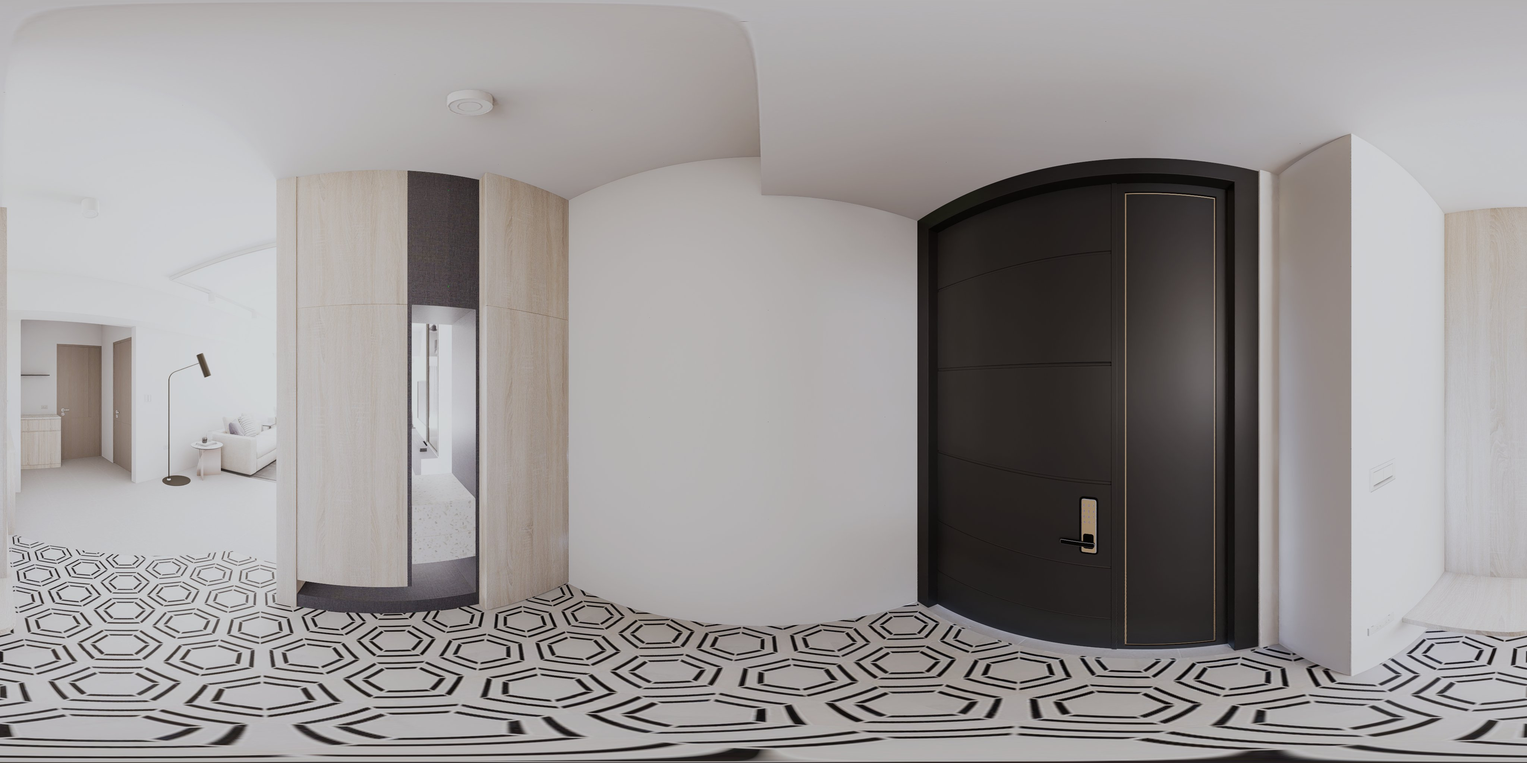
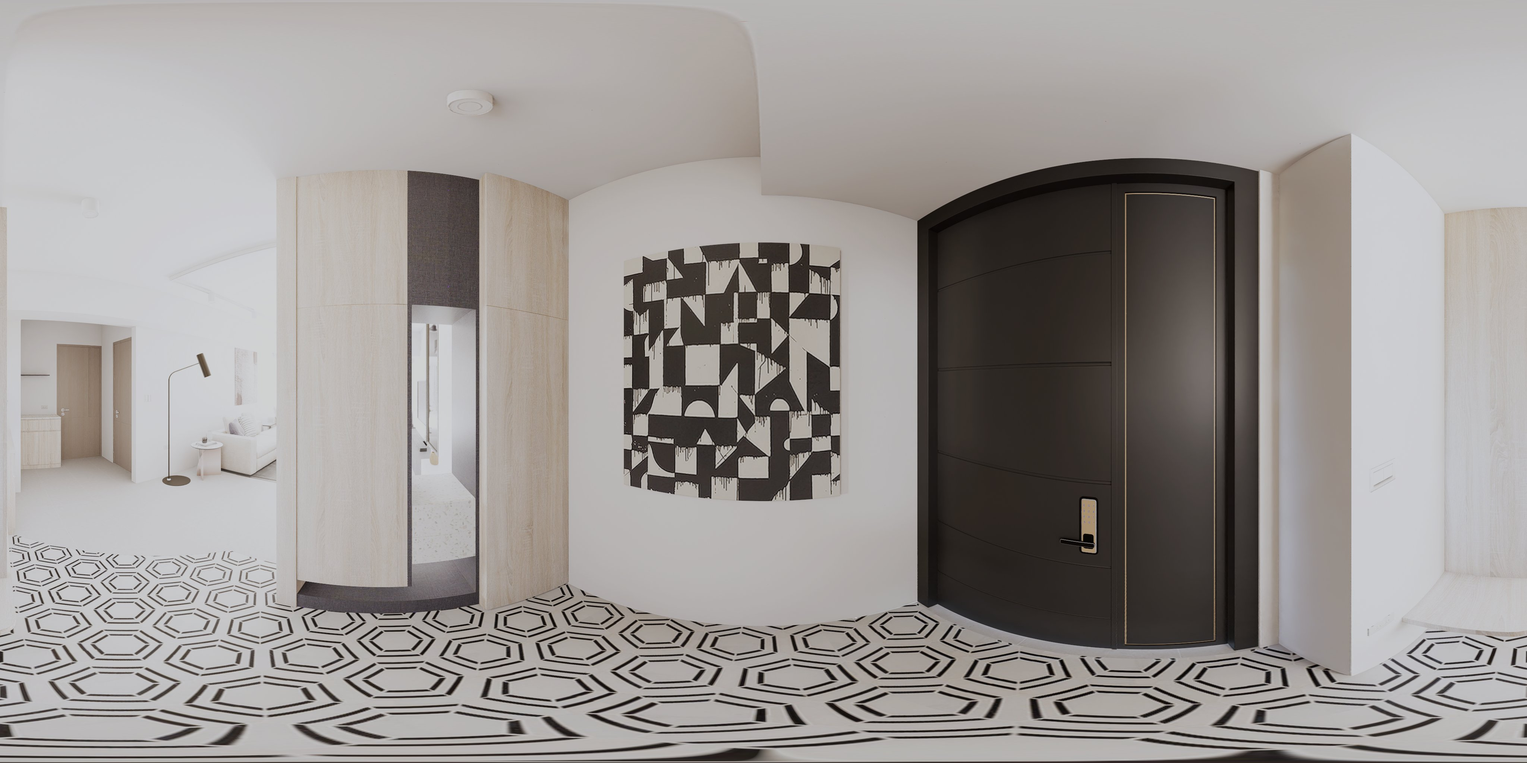
工學天下全屋樣品屋軟裝（9 站白天＋燈光重出，每間可開關飾品）
- 九個房間補家具飾品：掛畫、開放櫃與書櫃陳列、檯面擺件、地毯、圓墩、植物
- D5 重出 18 張（白天沿用原校色並降到平均約 150）
- 沒擺飾品的舊圖放 pano_plain／pano_night_plain，「飾品 關」切回原樣

Changed region(s): [[0.4062, 0.3125, 0.5625, 0.6562]]

diff --git a/gongxue/index.html b/gongxue/index.html
@@ -121,7 +121,7 @@ body { background: var(--bg); color: var(--ink); font-family: var(--f-ui); font-
 <script src="https://cdnjs.cloudflare.com/ajax/libs/pannellum/2.5.6/pannellum.js"></script>
 <script>
 const ROOMS = [{"id": "VR1", "name": "玄關", "x": 70.33, "y": 9.62}, {"id": "VR2", "name": "客廳", "x": 50.33, "y": 16.74}, {"id": "VR3", "name": "多功能區", "x": 21.0, "y": 41.42}, {"id": "VR4", "name": "廚房", "x": 16.33, "y": 58.58}, {"id": "VR5", "name": "走道", "x": 62.67, "y": 52.3}, {"id": "VR6", "name": "次臥", "x": 31.67, "y": 43.1}, {"id": "VR7", "name": "工作室", "x": 39.0, "y": 73.22}, {"id": "VR8", "name": "更衣室", "x": 66.0, "y": 72.8}, {"id": "VR9", "name": "主臥", "x": 80.33, "y": 74.9}];
-const SCENES = {"VR1": {"title": "玄關", "panorama": "pano/VR1.jpg?v=1b", "yaw": -135, "pitch": -5, "hfov": 105, "northOffset": 0, "hotSpots": [{"pitch": -8, "yaw": -135, "type": "scene", "sceneId": "VR2", "targetYaw": "sameAzimuth", "cssClass": "gis-hot", "createTooltipFunc": "HOT", "createTooltipArgs": "客廳"}]}, "VR2": {"title": "客廳", "panorama": "pano/VR2.jpg?v=d1", "yaw": -60, "pitch": -5, "hfov": 105, "northOffset": 0, "hotSpots": [{"pitch": -10, "yaw": 95, "type": "scene", "sceneId": "VR1", "targetYaw": "sameAzimuth", "cssClass": "gis-hot", "createTooltipFunc": "HOT", "createTooltipArgs": "玄關"}, {"pitch": -6, "yaw": -118, "type": "scene", "sceneId": "VR3", "targetYaw": "sameAzimuth", "cssClass": "gis-hot", "createTooltipFunc": "HOT", "createTooltipArgs": "多功能區"}, {"pitch": -2, "yaw": 150, "type": "scene", "sceneId": "VR6", "targetYaw": "sameAzimuth", "cssClass": "gis-hot", "createTooltipFunc": "HOT", "createTooltipArgs": "次臥"}, {"pitch": -18, "yaw": 145, "type": "scene", "sceneId": "VR5", "targetYaw": "sameAzimuth", "cssClass": "gis-hot", "createTooltipFunc": "HOT", "createTooltipArgs": "走道"}]}, "VR3": {"title": "多功能區", "panorama": "pano/VR3.jpg?v=1b", "yaw": -100, "pitch": -5, "hfov": 105, "northOffset": 0, "hotSpots": [{"pitch": -6, "yaw": 20, "type": "scene", "sceneId": "VR2", "targetYaw": "sameAzimuth", "cssClass": "gis-hot", "createTooltipFunc": "HOT", "createTooltipArgs": "客廳"}, {"pitch": -14, "yaw": -161, "type": "scene", "sceneId": "VR4", "targetYaw": "sameAzimuth", "cssClass": "gis-hot", "createTooltipFunc": "HOT", "createTooltipArgs": "廚房"}]}, "VR4": {"title": "廚房", "panorama": "pano/VR4.jpg?v=1b", "yaw": -150, "pitch": -5, "hfov": 105, "northOffset": 0, "hotSpots": [{"pitch": -14, "yaw": 19, "type": "scene", "sceneId": "VR3", "targetYaw": "sameAzimuth", "cssClass": "gis-hot", "createTooltipFunc": "HOT", "createTooltipArgs": "多功能區"}, {"pitch": -6, "yaw": 125, "type": "scene", "sceneId": "VR7", "targetYaw": "sameAzimuth", "cssClass": "gis-hot", "createTooltipFunc": "HOT", "createTooltipArgs": "工作室"}]}, "VR5": {"title": "走道", "panorama": "pano/VR5.jpg?v=1b", "yaw": 110, "pitch": -5, "hfov": 105, "northOffset": 0, "hotSpots": [{"pitch": -6, "yaw": -20, "type": "scene", "sceneId": "VR2", "targetYaw": "sameAzimuth", "cssClass": "gis-hot", "createTooltipFunc": "HOT", "createTooltipArgs": "客廳"}, {"pitch": -6, "yaw": -160, "type": "scene", "sceneId": "VR8", "targetYaw": "sameAzimuth", "cssClass": "gis-hot", "createTooltipFunc": "HOT", "createTooltipArgs": "更衣室"}, {"pitch": -8, "yaw": 110, "type": "scene", "sceneId": "VR9", "targetYaw": "sameAzimuth", "cssClass": "gis-hot", "createTooltipFunc": "HOT", "createTooltipArgs": "主臥"}]}, "VR6": {"title": "次臥", "panorama": "pano/VR6.jpg?v=1b", "yaw": 120, "pitch": -5, "hfov": 105, "northOffset": 0, "hotSpots": [{"pitch": -4, "yaw": 81, "type": "scene", "sceneId": "VR2", "targetYaw": "sameAzimuth", "cssClass": "gis-hot", "createTooltipFunc": "HOT", "createTooltipArgs": "客廳"}]}, "VR7": {"title": "工作室", "panorama": "pano/VR7.jpg?v=1b", "yaw": 0, "pitch": -5, "hfov": 105, "northOffset": 0, "hotSpots": [{"pitch": -6, "yaw": -70, "type": "scene", "sceneId": "VR4", "targetYaw": "sameAzimuth", "cssClass": "gis-hot", "createTooltipFunc": "HOT", "createTooltipArgs": "廚房"}]}, "VR8": {"title": "更衣室", "panorama": "pano/VR8.jpg?v=1b", "yaw": 30, "pitch": -5, "hfov": 105, "northOffset": 0, "hotSpots": [{"pitch": -6, "yaw": -34, "type": "scene", "sceneId": "VR5", "targetYaw": "sameAzimuth", "cssClass": "gis-hot", "createTooltipFunc": "HOT", "createTooltipArgs": "走道"}]}, "VR9": {"title": "主臥", "panorama": "pano/VR9.jpg?v=1", "yaw": 75, "pitch": -5, "hfov": 105, "northOffset": 0, "hotSpots": [{"pitch": -8, "yaw": -17, "type": "scene", "sceneId": "VR5", "targetYaw": "sameAzimuth", "cssClass": "gis-hot", "createTooltipFunc": "HOT", "createTooltipArgs": "走道"}]}, "VR1@n": {"title": "玄關", "panorama": "pano_night/VR1.jpg?v=1", "yaw": -135, "pitch": -5, "hfov": 105, "northOffset": 0, "hotSpots": [{"pitch": -8, "yaw": -135, "type": "scene", "sceneId": "VR2@n", "targetYaw": "sameAzimuth", "cssClass": "gis-hot", "createTooltipFunc": "HOT", "createTooltipArgs": "客廳"}]}, "VR2@n": {"title": "客廳", "panorama": "pano_night/VR2.jpg?v=d1", "yaw": -60, "pitch": -5, "hfov": 105, "northOffset": 0, "hotSpots": [{"pitch": -10, "yaw": 95, "type": "scene", "sceneId": "VR1@n", "targetYaw": "sameAzimuth", "cssClass": "gis-hot", "createTooltipFunc": "HOT", "createTooltipArgs": "玄關"}, {"pitch": -6, "yaw": -118, "type": "scene", "sceneId": "VR3@n", "targetYaw": "sameAzimuth", "cssClass": "gis-hot", "createTooltipFunc": "HOT", "createTooltipArgs": "多功能區"}, {"pitch": -2, "yaw": 150, "type": "scene", "sceneId": "VR6@n", "targetYaw": "sameAzimuth", "cssClass": "gis-hot", "createTooltipFunc": "HOT", "createTooltipArgs": "次臥"}, {"pitch": -18, "yaw": 145, "type": "scene", "sceneId": "VR5@n", "targetYaw": "sameAzimuth", "cssClass": "gis-hot", "createTooltipFunc": "HOT", "createTooltipArgs": "走道"}]}, "VR3@n": {"title": "多功能區", "panorama": "pano_night/VR3.jpg?v=1", "yaw": -100, "pitch": -5, "hfov": 105, "northOffset": 0, "hotSpots": [{"pitch": -6, "yaw": 20, "type": "scene", "sceneId": "VR2@n", "targetYaw": "sameAzimuth", "cssClass": "gis-hot", "createTooltipFunc": "HOT", "createTooltipArgs": "客廳"}, {"pitch": -14, "yaw": -161, "type": "scene", "sceneId": "VR4@n", "targetYaw": "sameAzimuth", "cssClass": "gis-hot", "createTooltipFunc": "HOT", "createTooltipArgs": "廚房"}]}, "VR4@n": {"title": "廚房", "panorama": "pano_night/VR4.jpg?v=1", "yaw": -150, "pitch": -5, "hfov": 105, "northOffset": 0, "hotSpots": [{"pitch": -14, "yaw": 19, "type": "scene", "sceneId": "VR3@n", "targetYaw": "sameAzimuth", "cssClass": "gis-hot", "createTooltipFunc": "HOT", "createTooltipArgs": "多功能區"}, {"pitch": -6, "yaw": 125, "type": "scene", "sceneId": "VR7@n", "targetYaw": "sameAzimuth", "cssClass": "gis-hot", "createTooltipFunc": "HOT", "createTooltipArgs": "工作室"}]}, "VR5@n": {"title": "走道", "panorama": "pano_night/VR5.jpg?v=1", "yaw": 110, "pitch": -5, "hfov": 105, "northOffset": 0, "hotSpots": [{"pitch": -6, "yaw": -20, "type": "scene", "sceneId": "VR2@n", "targetYaw": "sameAzimuth", "cssClass": "gis-hot", "createTooltipFunc": "HOT", "createTooltipArgs": "客廳"}, {"pitch": -6, "yaw": -160, "type": "scene", "sceneId": "VR8@n", "targetYaw": "sameAzimuth", "cssClass": "gis-hot", "createTooltipFunc": "HOT", "createTooltipArgs": "更衣室"}, {"pitch": -8, "yaw": 110, "type": "scene", "sceneId": "VR9@n", "targetYaw": "sameAzimuth", "cssClass": "gis-hot", "createTooltipFunc": "HOT", "createTooltipArgs": "主臥"}]}, "VR6@n": {"title": "次臥", "panorama": "pano_night/VR6.jpg?v=1", "yaw": 120, "pitch": -5, "hfov": 105, "northOffset": 0, "hotSpots": [{"pitch": -4, "yaw": 81, "type": "scene", "sceneId": "VR2@n", "targetYaw": "sameAzimuth", "cssClass": "gis-hot", "createTooltipFunc": "HOT", "createTooltipArgs": "客廳"}]}, "VR7@n": {"title": "工作室", "panorama": "pano_night/VR7.jpg?v=1", "yaw": 0, "pitch": -5, "hfov": 105, "northOffset": 0, "hotSpots": [{"pitch": -6, "yaw": -70, "type": "scene", "sceneId": "VR4@n", "targetYaw": "sameAzimuth", "cssClass": "gis-hot", "createTooltipFunc": "HOT", "createTooltipArgs": "廚房"}]}, "VR8@n": {"title": "更衣室", "panorama": "pano_night/VR8.jpg?v=1", "yaw": 30, "pitch": -5, "hfov": 105, "northOffset": 0, "hotSpots": [{"pitch": -6, "yaw": -34, "type": "scene", "sceneId": "VR5@n", "targetYaw": "sameAzimuth", "cssClass": "gis-hot", "createTooltipFunc": "HOT", "createTooltipArgs": "走道"}]}, "VR9@n": {"title": "主臥", "panorama": "pano_night/VR9.jpg?v=1", "yaw": 75, "pitch": -5, "hfov": 105, "northOffset": 0, "hotSpots": [{"pitch": -8, "yaw": -17, "type": "scene", "sceneId": "VR5@n", "targetYaw": "sameAzimuth", "cssClass": "gis-hot", "createTooltipFunc": "HOT", "createTooltipArgs": "走道"}]}, "VR1@b": {"title": "玄關", "panorama": "pano_before/VR1.jpg?v=1", "yaw": -135, "pitch": -5, "hfov": 105, "northOffset": 0, "hotSpots": [{"pitch": -8, "yaw": -135, "type": "scene", "sceneId": "VR2@b", "targetYaw": "sameAzimuth", "cssClass": "gis-hot", "createTooltipFunc": "HOT", "createTooltipArgs": "客廳"}]}, "VR2@b": {"title": "客廳", "panorama": "pano_before/VR2.jpg?v=1", "yaw": -60, "pitch": -5, "hfov": 105, "northOffset": 0, "hotSpots": [{"pitch": -10, "yaw": 95, "type": "scene", "sceneId": "VR1@b", "targetYaw": "sameAzimuth", "cssClass": "gis-hot", "createTooltipFunc": "HOT", "createTooltipArgs": "玄關"}, {"pitch": -6, "yaw": -118, "type": "scene", "sceneId": "VR3@b", "targetYaw": "sameAzimuth", "cssClass": "gis-hot", "createTooltipFunc": "HOT", "createTooltipArgs": "多功能區"}, {"pitch": -2, "yaw": 150, "type": "scene", "sceneId": "VR6@b", "targetYaw": "sameAzimuth", "cssClass": "gis-hot", "createTooltipFunc": "HOT", "createTooltipArgs": "次臥"}, {"pitch": -18, "yaw": 145, "type": "scene", "sceneId": "VR5@b", "targetYaw": "sameAzimuth", "cssClass": "gis-hot", "createTooltipFunc": "HOT", "createTooltipArgs": "走道"}]}, "VR3@b": {"title": "多功能區", "panorama": "pano_before/VR3.jpg?v=1", "yaw": -100, "pitch": -5, "hfov": 105, "northOffset": 0, "hotSpots": [{"pitch": -6, "yaw": 20, "type": "scene", "sceneId": "VR2@b", "targetYaw": "sameAzimuth", "cssClass": "gis-hot", "createTooltipFunc": "HOT", "createTooltipArgs": "客廳"}, {"pitch": -14, "yaw": -161, "type": "scene", "sceneId": "VR4@b", "targetYaw": "sameAzimuth", "cssClass": "gis-hot", "createTooltipFunc": "HOT", "createTooltipArgs": "廚房"}]}, "VR4@b": {"title": "廚房", "panorama": "pano_before/VR4.jpg?v=1", "yaw": -150, "pitch": -5, "hfov": 105, "northOffset": 0, "hotSpots": [{"pitch": -14, "yaw": 19, "type": "scene", "sceneId": "VR3@b", "targetYaw": "sameAzimuth", "cssClass": "gis-hot", "createTooltipFunc": "HOT", "createTooltipArgs": "多功能區"}, {"pitch": -6, "yaw": 125, "type": "scene", "sceneId": "VR7@b", "targetYaw": "sameAzimuth", "cssClass": "gis-hot", "createTooltipFunc": "HOT", "createTooltipArgs": "工作室"}]}, "VR5@b": {"title": "走道", "panorama": "pano_before/VR5.jpg?v=1", "yaw": 110, "pitch": -5, "hfov": 105, "northOffset": 0, "hotSpots": [{"pitch": -6, "yaw": -20, "type": "scene", "sceneId": "VR2@b", "targetYaw": "sameAzimuth", "cssClass": "gis-hot", "createTooltipFunc": "HOT", "createTooltipArgs": "客廳"}, {"pitch": -6, "yaw": -160, "type": "scene", "sceneId": "VR8@b", "targetYaw": "sameAzimuth", "cssClass": "gis-hot", "createTooltipFunc": "HOT", "createTooltipArgs": "更衣室"}, {"pitch": -8, "yaw": 110, "type": "scene", "sceneId": "VR9@b", "targetYaw": "sameAzimuth", "cssClass": "gis-hot", "createTooltipFunc": "HOT", "createTooltipArgs": "主臥"}]}, "VR6@b": {"title": "次臥", "panorama": "pano_before/VR6.jpg?v=1", "yaw": 120, "pitch": -5, "hfov": 105, "northOffset": 0, "hotSpots": [{"pitch": -4, "yaw": 81, "type": "scene", "sceneId": "VR2@b", "targetYaw": "sameAzimuth", "cssClass": "gis-hot", "createTooltipFunc": "HOT", "createTooltipArgs": "客廳"}]}, "VR7@b": {"title": "工作室", "panorama": "pano_before/VR7.jpg?v=1", "yaw": 0, "pitch": -5, "hfov": 105, "northOffset": 0, "hotSpots": [{"pitch": -6, "yaw": -70, "type": "scene", "sceneId": "VR4@b", "targetYaw": "sameAzimuth", "cssClass": "gis-hot", "createTooltipFunc": "HOT", "createTooltipArgs": "廚房"}]}, "VR8@b": {"title": "更衣室", "panorama": "pano_before/VR8.jpg?v=1", "yaw": 30, "pitch": -5, "hfov": 105, "northOffset": 0, "hotSpots": [{"pitch": -6, "yaw": -34, "type": "scene", "sceneId": "VR5@b", "targetYaw": "sameAzimuth", "cssClass": "gis-hot", "createTooltipFunc": "HOT", "createTooltipArgs": "走道"}]}, "VR9@b": {"title": "主臥", "panorama": "pano_before/VR9.jpg?v=1", "yaw": 75, "pitch": -5, "hfov": 105, "northOffset": 0, "hotSpots": [{"pitch": -8, "yaw": -17, "type": "scene", "sceneId": "VR5@b", "targetYaw": "sameAzimuth", "cssClass": "gis-hot", "createTooltipFunc": "HOT", "createTooltipArgs": "走道"}]}, "VR1~p": {"title": "玄關", "panorama": "pano/VR1.jpg?v=1b", "yaw": -135, "pitch": -5, "hfov": 105, "northOffset": 0, "hotSpots": [{"pitch": -8, "yaw": -135, "type": "scene", "sceneId": "VR2~p", "targetYaw": "sameAzimuth", "cssClass": "gis-hot", "createTooltipFunc": "HOT", "createTooltipArgs": "客廳"}]}, "VR2~p": {"title": "客廳", "panorama": "pano_plain/VR2.jpg?v=1b", "yaw": -60, "pitch": -5, "hfov": 105, "northOffset": 0, "hotSpots": [{"pitch": -10, "yaw": 95, "type": "scene", "sceneId": "VR1~p", "targetYaw": "sameAzimuth", "cssClass": "gis-hot", "createTooltipFunc": "HOT", "createTooltipArgs": "玄關"}, {"pitch": -6, "yaw": -118, "type": "scene", "sceneId": "VR3~p", "targetYaw": "sameAzimuth", "cssClass": "gis-hot", "createTooltipFunc": "HOT", "createTooltipArgs": "多功能區"}, {"pitch": -2, "yaw": 150, "type": "scene", "sceneId": "VR6~p", "targetYaw": "sameAzimuth", "cssClass": "gis-hot", "createTooltipFunc": "HOT", "createTooltipArgs": "次臥"}, {"pitch": -18, "yaw": 145, "type": "scene", "sceneId": "VR5~p", "targetYaw": "sameAzimuth", "cssClass": "gis-hot", "createTooltipFunc": "HOT", "createTooltipArgs": "走道"}]}, "VR3~p": {"title": "多功能區", "panorama": "pano/VR3.jpg?v=1b", "yaw": -100, "pitch": -5, "hfov": 105, "northOffset": 0, "hotSpots": [{"pitch": -6, "yaw": 20, "type": "scene", "sceneId": "VR2~p", "targetYaw": "sameAzimuth", "cssClass": "gis-hot", "createTooltipFunc": "HOT", "createTooltipArgs": "客廳"}, {"pitch": -14, "yaw": -161, "type": "scene", "sceneId": "VR4~p", "targetYaw": "sameAzimuth", "cssClass": "gis-hot", "createTooltipFunc": "HOT", "createTooltipArgs": "廚房"}]}, "VR4~p": {"title": "廚房", "panorama": "pano/VR4.jpg?v=1b", "yaw": -150, "pitch": -5, "hfov": 105, "northOffset": 0, "hotSpots": [{"pitch": -14, "yaw": 19, "type": "scene", "sceneId": "VR3~p", "targetYaw": "sameAzimuth", "cssClass": "gis-hot", "createTooltipFunc": "HOT", "createTooltipArgs": "多功能區"}, {"pitch": -6, "yaw": 125, "type": "scene", "sceneId": "VR7~p", "targetYaw": "sameAzimuth", "cssClass": "gis-hot", "createTooltipFunc": "HOT", "createTooltipArgs": "工作室"}]}, "VR5~p": {"title": "走道", "panorama": "pano/VR5.jpg?v=1b", "yaw": 110, "pitch": -5, "hfov": 105, "northOffset": 0, "hotSpots": [{"pitch": -6, "yaw": -20, "type": "scene", "sceneId": "VR2~p", "targetYaw": "sameAzimuth", "cssClass": "gis-hot", "createTooltipFunc": "HOT", "createTooltipArgs": "客廳"}, {"pitch": -6, "yaw": -160, "type": "scene", "sceneId": "VR8~p", "targetYaw": "sameAzimuth", "cssClass": "gis-hot", "createTooltipFunc": "HOT", "createTooltipArgs": "更衣室"}, {"pitch": -8, "yaw": 110, "type": "scene", "sceneId": "VR9~p", "targetYaw": "sameAzimuth", "cssClass": "gis-hot", "createTooltipFunc": "HOT", "createTooltipArgs": "主臥"}]}, "VR6~p": {"title": "次臥", "panorama": "pano/VR6.jpg?v=1b", "yaw": 120, "pitch": -5, "hfov": 105, "northOffset": 0, "hotSpots": [{"pitch": -4, "yaw": 81, "type": "scene", "sceneId": "VR2~p", "targetYaw": "sameAzimuth", "cssClass": "gis-hot", "createTooltipFunc": "HOT", "createTooltipArgs": "客廳"}]}, "VR7~p": {"title": "工作室", "panorama": "pano/VR7.jpg?v=1b", "yaw": 0, "pitch": -5, "hfov": 105, "northOffset": 0, "hotSpots": [{"pitch": -6, "yaw": -70, "type": "scene", "sceneId": "VR4~p", "targetYaw": "sameAzimuth", "cssClass": "gis-hot", "createTooltipFunc": "HOT", "createTooltipArgs": "廚房"}]}, "VR8~p": {"title": "更衣室", "panorama": "pano/VR8.jpg?v=1b", "yaw": 30, "pitch": -5, "hfov": 105, "northOffset": 0, "hotSpots": [{"pitch": -6, "yaw": -34, "type": "scene", "sceneId": "VR5~p", "targetYaw": "sameAzimuth", "cssClass": "gis-hot", "createTooltipFunc": "HOT", "createTooltipArgs": "走道"}]}, "VR9~p": {"title": "主臥", "panorama": "pano/VR9.jpg?v=1", "yaw": 75, "pitch": -5, "hfov": 105, "northOffset": 0, "hotSpots": [{"pitch": -8, "yaw": -17, "type": "scene", "sceneId": "VR5~p", "targetYaw": "sameAzimuth", "cssClass": "gis-hot", "createTooltipFunc": "HOT", "createTooltipArgs": "走道"}]}, "VR1@n~p": {"title": "玄關", "panorama": "pano_night/VR1.jpg?v=1", "yaw": -135, "pitch": -5, "hfov": 105, "northOffset": 0, "hotSpots": [{"pitch": -8, "yaw": -135, "type": "scene", "sceneId": "VR2@n~p", "targetYaw": "sameAzimuth", "cssClass": "gis-hot", "createTooltipFunc": "HOT", "createTooltipArgs": "客廳"}]}, "VR2@n~p": {"title": "客廳", "panorama": "pano_night_plain/VR2.jpg?v=1", "yaw": -60, "pitch": -5, "hfov": 105, "northOffset": 0, "hotSpots": [{"pitch": -10, "yaw": 95, "type": "scene", "sceneId": "VR1@n~p", "targetYaw": "sameAzimuth", "cssClass": "gis-hot", "createTooltipFunc": "HOT", "createTooltipArgs": "玄關"}, {"pitch": -6, "yaw": -118, "type": "scene", "sceneId": "VR3@n~p", "targetYaw": "sameAzimuth", "cssClass": "gis-hot", "createTooltipFunc": "HOT", "createTooltipArgs": "多功能區"}, {"pitch": -2, "yaw": 150, "type": "scene", "sceneId": "VR6@n~p", "targetYaw": "sameAzimuth", "cssClass": "gis-hot", "createTooltipFunc": "HOT", "createTooltipArgs": "次臥"}, {"pitch": -18, "yaw": 145, "type": "scene", "sceneId": "VR5@n~p", "targetYaw": "sameAzimuth", "cssClass": "gis-hot", "createTooltipFunc": "HOT", "createTooltipArgs": "走道"}]}, "VR3@n~p": {"title": "多功能區", "panorama": "pano_night/VR3.jpg?v=1", "yaw": -100, "pitch": -5, "hfov": 105, "northOffset": 0, "hotSpots": [{"pitch": -6, "yaw": 20, "type": "scene", "sceneId": "VR2@n~p", "targetYaw": "sameAzimuth", "cssClass": "gis-hot", "createTooltipFunc": "HOT", "createTooltipArgs": "客廳"}, {"pitch": -14, "yaw": -161, "type": "scene", "sceneId": "VR4@n~p", "targetYaw": "sameAzimuth", "cssClass": "gis-hot", "createTooltipFunc": "HOT", "createTooltipArgs": "廚房"}]}, "VR4@n~p": {"title": "廚房", "panorama": "pano_night/VR4.jpg?v=1", "yaw": -150, "pitch": -5, "hfov": 105, "northOffset": 0, "hotSpots": [{"pitch": -14, "yaw": 19, "type": "scene", "sceneId": "VR3@n~p", "targetYaw": "sameAzimuth", "cssClass": "gis-hot", "createTooltipFunc": "HOT", "createTooltipArgs": "多功能區"}, {"pitch": -6, "yaw": 125, "type": "scene", "sceneId": "VR7@n~p", "targetYaw": "sameAzimuth", "cssClass": "gis-hot", "createTooltipFunc": "HOT", "createTooltipArgs": "工作室"}]}, "VR5@n~p": {"title": "走道", "panorama": "pano_night/VR5.jpg?v=1", "yaw": 110, "pitch": -5, "hfov": 105, "northOffset": 0, "hotSpots": [{"pitch": -6, "yaw": -20, "type": "scene", "sceneId": "VR2@n~p", "targetYaw": "sameAzimuth", "cssClass": "gis-hot", "createTooltipFunc": "HOT", "createTooltipArgs": "客廳"}, {"pitch": -6, "yaw": -160, "type": "scene", "sceneId": "VR8@n~p", "targetYaw": "sameAzimuth", "cssClass": "gis-hot", "createTooltipFunc": "HOT", "createTooltipArgs": "更衣室"}, {"pitch": -8, "yaw": 110, "type": "scene", "sceneId": "VR9@n~p", "targetYaw": "sameAzimuth", "cssClass": "gis-hot", "createTooltipFunc": "HOT", "createTooltipArgs": "主臥"}]}, "VR6@n~p": {"title": "次臥", "panorama": "pano_night/VR6.jpg?v=1", "yaw": 120, "pitch": -5, "hfov": 105, "northOffset": 0, "hotSpots": [{"pitch": -4, "yaw": 81, "type": "scene", "sceneId": "VR2@n~p", "targetYaw": "sameAzimuth", "cssClass": "gis-hot", "createTooltipFunc": "HOT", "createTooltipArgs": "客廳"}]}, "VR7@n~p": {"title": "工作室", "panorama": "pano_night/VR7.jpg?v=1", "yaw": 0, "pitch": -5, "hfov": 105, "northOffset": 0, "hotSpots": [{"pitch": -6, "yaw": -70, "type": "scene", "sceneId": "VR4@n~p", "targetYaw": "sameAzimuth", "cssClass": "gis-hot", "createTooltipFunc": "HOT", "createTooltipArgs": "廚房"}]}, "VR8@n~p": {"title": "更衣室", "panorama": "pano_night/VR8.jpg?v=1", "yaw": 30, "pitch": -5, "hfov": 105, "northOffset": 0, "hotSpots": [{"pitch": -6, "yaw": -34, "type": "scene", "sceneId": "VR5@n~p", "targetYaw": "sameAzimuth", "cssClass": "gis-hot", "createTooltipFunc": "HOT", "createTooltipArgs": "走道"}]}, "VR9@n~p": {"title": "主臥", "panorama": "pano_night/VR9.jpg?v=1", "yaw": 75, "pitch": -5, "hfov": 105, "northOffset": 0, "hotSpots": [{"pitch": -8, "yaw": -17, "type": "scene", "sceneId": "VR5@n~p", "targetYaw": "sameAzimuth", "cssClass": "gis-hot", "createTooltipFunc": "HOT", "createTooltipArgs": "走道"}]}};
+const SCENES = {"VR1": {"title": "玄關", "panorama": "pano/VR1.jpg?v=s1", "yaw": -135, "pitch": -5, "hfov": 105, "northOffset": 0, "hotSpots": [{"pitch": -8, "yaw": -135, "type": "scene", "sceneId": "VR2", "targetYaw": "sameAzimuth", "cssClass": "gis-hot", "createTooltipFunc": "HOT", "createTooltipArgs": "客廳"}]}, "VR2": {"title": "客廳", "panorama": "pano/VR2.jpg?v=s1", "yaw": -60, "pitch": -5, "hfov": 105, "northOffset": 0, "hotSpots": [{"pitch": -10, "yaw": 95, "type": "scene", "sceneId": "VR1", "targetYaw": "sameAzimuth", "cssClass": "gis-hot", "createTooltipFunc": "HOT", "createTooltipArgs": "玄關"}, {"pitch": -6, "yaw": -118, "type": "scene", "sceneId": "VR3", "targetYaw": "sameAzimuth", "cssClass": "gis-hot", "createTooltipFunc": "HOT", "createTooltipArgs": "多功能區"}, {"pitch": -2, "yaw": 150, "type": "scene", "sceneId": "VR6", "targetYaw": "sameAzimuth", "cssClass": "gis-hot", "createTooltipFunc": "HOT", "createTooltipArgs": "次臥"}, {"pitch": -18, "yaw": 145, "type": "scene", "sceneId": "VR5", "targetYaw": "sameAzimuth", "cssClass": "gis-hot", "createTooltipFunc": "HOT", "createTooltipArgs": "走道"}]}, "VR3": {"title": "多功能區", "panorama": "pano/VR3.jpg?v=s1", "yaw": -100, "pitch": -5, "hfov": 105, "northOffset": 0, "hotSpots": [{"pitch": -6, "yaw": 20, "type": "scene", "sceneId": "VR2", "targetYaw": "sameAzimuth", "cssClass": "gis-hot", "createTooltipFunc": "HOT", "createTooltipArgs": "客廳"}, {"pitch": -14, "yaw": -161, "type": "scene", "sceneId": "VR4", "targetYaw": "sameAzimuth", "cssClass": "gis-hot", "createTooltipFunc": "HOT", "createTooltipArgs": "廚房"}]}, "VR4": {"title": "廚房", "panorama": "pano/VR4.jpg?v=s1", "yaw": -150, "pitch": -5, "hfov": 105, "northOffset": 0, "hotSpots": [{"pitch": -14, "yaw": 19, "type": "scene", "sceneId": "VR3", "targetYaw": "sameAzimuth", "cssClass": "gis-hot", "createTooltipFunc": "HOT", "createTooltipArgs": "多功能區"}, {"pitch": -6, "yaw": 125, "type": "scene", "sceneId": "VR7", "targetYaw": "sameAzimuth", "cssClass": "gis-hot", "createTooltipFunc": "HOT", "createTooltipArgs": "工作室"}]}, "VR5": {"title": "走道", "panorama": "pano/VR5.jpg?v=s1", "yaw": 110, "pitch": -5, "hfov": 105, "northOffset": 0, "hotSpots": [{"pitch": -6, "yaw": -20, "type": "scene", "sceneId": "VR2", "targetYaw": "sameAzimuth", "cssClass": "gis-hot", "createTooltipFunc": "HOT", "createTooltipArgs": "客廳"}, {"pitch": -6, "yaw": -160, "type": "scene", "sceneId": "VR8", "targetYaw": "sameAzimuth", "cssClass": "gis-hot", "createTooltipFunc": "HOT", "createTooltipArgs": "更衣室"}, {"pitch": -8, "yaw": 110, "type": "scene", "sceneId": "VR9", "targetYaw": "sameAzimuth", "cssClass": "gis-hot", "createTooltipFunc": "HOT", "createTooltipArgs": "主臥"}]}, "VR6": {"title": "次臥", "panorama": "pano/VR6.jpg?v=s1", "yaw": 120, "pitch": -5, "hfov": 105, "northOffset": 0, "hotSpots": [{"pitch": -4, "yaw": 81, "type": "scene", "sceneId": "VR2", "targetYaw": "sameAzimuth", "cssClass": "gis-hot", "createTooltipFunc": "HOT", "createTooltipArgs": "客廳"}]}, "VR7": {"title": "工作室", "panorama": "pano/VR7.jpg?v=s1", "yaw": 0, "pitch": -5, "hfov": 105, "northOffset": 0, "hotSpots": [{"pitch": -6, "yaw": -70, "type": "scene", "sceneId": "VR4", "targetYaw": "sameAzimuth", "cssClass": "gis-hot", "createTooltipFunc": "HOT", "createTooltipArgs": "廚房"}]}, "VR8": {"title": "更衣室", "panorama": "pano/VR8.jpg?v=s1", "yaw": 30, "pitch": -5, "hfov": 105, "northOffset": 0, "hotSpots": [{"pitch": -6, "yaw": -34, "type": "scene", "sceneId": "VR5", "targetYaw": "sameAzimuth", "cssClass": "gis-hot", "createTooltipFunc": "HOT", "createTooltipArgs": "走道"}]}, "VR9": {"title": "主臥", "panorama": "pano/VR9.jpg?v=s1", "yaw": 75, "pitch": -5, "hfov": 105, "northOffset": 0, "hotSpots": [{"pitch": -8, "yaw": -17, "type": "scene", "sceneId": "VR5", "targetYaw": "sameAzimuth", "cssClass": "gis-hot", "createTooltipFunc": "HOT", "createTooltipArgs": "走道"}]}, "VR1@n": {"title": "玄關", "panorama": "pano_night/VR1.jpg?v=s1", "yaw": -135, "pitch": -5, "hfov": 105, "northOffset": 0, "hotSpots": [{"pitch": -8, "yaw": -135, "type": "scene", "sceneId": "VR2@n", "targetYaw": "sameAzimuth", "cssClass": "gis-hot", "createTooltipFunc": "HOT", "createTooltipArgs": "客廳"}]}, "VR2@n": {"title": "客廳", "panorama": "pano_night/VR2.jpg?v=s1", "yaw": -60, "pitch": -5, "hfov": 105, "northOffset": 0, "hotSpots": [{"pitch": -10, "yaw": 95, "type": "scene", "sceneId": "VR1@n", "targetYaw": "sameAzimuth", "cssClass": "gis-hot", "createTooltipFunc": "HOT", "createTooltipArgs": "玄關"}, {"pitch": -6, "yaw": -118, "type": "scene", "sceneId": "VR3@n", "targetYaw": "sameAzimuth", "cssClass": "gis-hot", "createTooltipFunc": "HOT", "createTooltipArgs": "多功能區"}, {"pitch": -2, "yaw": 150, "type": "scene", "sceneId": "VR6@n", "targetYaw": "sameAzimuth", "cssClass": "gis-hot", "createTooltipFunc": "HOT", "createTooltipArgs": "次臥"}, {"pitch": -18, "yaw": 145, "type": "scene", "sceneId": "VR5@n", "targetYaw": "sameAzimuth", "cssClass": "gis-hot", "createTooltipFunc": "HOT", "createTooltipArgs": "走道"}]}, "VR3@n": {"title": "多功能區", "panorama": "pano_night/VR3.jpg?v=s1", "yaw": -100, "pitch": -5, "hfov": 105, "northOffset": 0, "hotSpots": [{"pitch": -6, "yaw": 20, "type": "scene", "sceneId": "VR2@n", "targetYaw": "sameAzimuth", "cssClass": "gis-hot", "createTooltipFunc": "HOT", "createTooltipArgs": "客廳"}, {"pitch": -14, "yaw": -161, "type": "scene", "sceneId": "VR4@n", "targetYaw": "sameAzimuth", "cssClass": "gis-hot", "createTooltipFunc": "HOT", "createTooltipArgs": "廚房"}]}, "VR4@n": {"title": "廚房", "panorama": "pano_night/VR4.jpg?v=s1", "yaw": -150, "pitch": -5, "hfov": 105, "northOffset": 0, "hotSpots": [{"pitch": -14, "yaw": 19, "type": "scene", "sceneId": "VR3@n", "targetYaw": "sameAzimuth", "cssClass": "gis-hot", "createTooltipFunc": "HOT", "createTooltipArgs": "多功能區"}, {"pitch": -6, "yaw": 125, "type": "scene", "sceneId": "VR7@n", "targetYaw": "sameAzimuth", "cssClass": "gis-hot", "createTooltipFunc": "HOT", "createTooltipArgs": "工作室"}]}, "VR5@n": {"title": "走道", "panorama": "pano_night/VR5.jpg?v=s1", "yaw": 110, "pitch": -5, "hfov": 105, "northOffset": 0, "hotSpots": [{"pitch": -6, "yaw": -20, "type": "scene", "sceneId": "VR2@n", "targetYaw": "sameAzimuth", "cssClass": "gis-hot", "createTooltipFunc": "HOT", "createTooltipArgs": "客廳"}, {"pitch": -6, "yaw": -160, "type": "scene", "sceneId": "VR8@n", "targetYaw": "sameAzimuth", "cssClass": "gis-hot", "createTooltipFunc": "HOT", "createTooltipArgs": "更衣室"}, {"pitch": -8, "yaw": 110, "type": "scene", "sceneId": "VR9@n", "targetYaw": "sameAzimuth", "cssClass": "gis-hot", "createTooltipFunc": "HOT", "createTooltipArgs": "主臥"}]}, "VR6@n": {"title": "次臥", "panorama": "pano_night/VR6.jpg?v=s1", "yaw": 120, "pitch": -5, "hfov": 105, "northOffset": 0, "hotSpots": [{"pitch": -4, "yaw": 81, "type": "scene", "sceneId": "VR2@n", "targetYaw": "sameAzimuth", "cssClass": "gis-hot", "createTooltipFunc": "HOT", "createTooltipArgs": "客廳"}]}, "VR7@n": {"title": "工作室", "panorama": "pano_night/VR7.jpg?v=s1", "yaw": 0, "pitch": -5, "hfov": 105, "northOffset": 0, "hotSpots": [{"pitch": -6, "yaw": -70, "type": "scene", "sceneId": "VR4@n", "targetYaw": "sameAzimuth", "cssClass": "gis-hot", "createTooltipFunc": "HOT", "createTooltipArgs": "廚房"}]}, "VR8@n": {"title": "更衣室", "panorama": "pano_night/VR8.jpg?v=s1", "yaw": 30, "pitch": -5, "hfov": 105, "northOffset": 0, "hotSpots": [{"pitch": -6, "yaw": -34, "type": "scene", "sceneId": "VR5@n", "targetYaw": "sameAzimuth", "cssClass": "gis-hot", "createTooltipFunc": "HOT", "createTooltipArgs": "走道"}]}, "VR9@n": {"title": "主臥", "panorama": "pano_night/VR9.jpg?v=s1", "yaw": 75, "pitch": -5, "hfov": 105, "northOffset": 0, "hotSpots": [{"pitch": -8, "yaw": -17, "type": "scene", "sceneId": "VR5@n", "targetYaw": "sameAzimuth", "cssClass": "gis-hot", "createTooltipFunc": "HOT", "createTooltipArgs": "走道"}]}, "VR1@b": {"title": "玄關", "panorama": "pano_before/VR1.jpg?v=1", "yaw": -135, "pitch": -5, "hfov": 105, "northOffset": 0, "hotSpots": [{"pitch": -8, "yaw": -135, "type": "scene", "sceneId": "VR2@b", "targetYaw": "sameAzimuth", "cssClass": "gis-hot", "createTooltipFunc": "HOT", "createTooltipArgs": "客廳"}]}, "VR2@b": {"title": "客廳", "panorama": "pano_before/VR2.jpg?v=1", "yaw": -60, "pitch": -5, "hfov": 105, "northOffset": 0, "hotSpots": [{"pitch": -10, "yaw": 95, "type": "scene", "sceneId": "VR1@b", "targetYaw": "sameAzimuth", "cssClass": "gis-hot", "createTooltipFunc": "HOT", "createTooltipArgs": "玄關"}, {"pitch": -6, "yaw": -118, "type": "scene", "sceneId": "VR3@b", "targetYaw": "sameAzimuth", "cssClass": "gis-hot", "createTooltipFunc": "HOT", "createTooltipArgs": "多功能區"}, {"pitch": -2, "yaw": 150, "type": "scene", "sceneId": "VR6@b", "targetYaw": "sameAzimuth", "cssClass": "gis-hot", "createTooltipFunc": "HOT", "createTooltipArgs": "次臥"}, {"pitch": -18, "yaw": 145, "type": "scene", "sceneId": "VR5@b", "targetYaw": "sameAzimuth", "cssClass": "gis-hot", "createTooltipFunc": "HOT", "createTooltipArgs": "走道"}]}, "VR3@b": {"title": "多功能區", "panorama": "pano_before/VR3.jpg?v=1", "yaw": -100, "pitch": -5, "hfov": 105, "northOffset": 0, "hotSpots": [{"pitch": -6, "yaw": 20, "type": "scene", "sceneId": "VR2@b", "targetYaw": "sameAzimuth", "cssClass": "gis-hot", "createTooltipFunc": "HOT", "createTooltipArgs": "客廳"}, {"pitch": -14, "yaw": -161, "type": "scene", "sceneId": "VR4@b", "targetYaw": "sameAzimuth", "cssClass": "gis-hot", "createTooltipFunc": "HOT", "createTooltipArgs": "廚房"}]}, "VR4@b": {"title": "廚房", "panorama": "pano_before/VR4.jpg?v=1", "yaw": -150, "pitch": -5, "hfov": 105, "northOffset": 0, "hotSpots": [{"pitch": -14, "yaw": 19, "type": "scene", "sceneId": "VR3@b", "targetYaw": "sameAzimuth", "cssClass": "gis-hot", "createTooltipFunc": "HOT", "createTooltipArgs": "多功能區"}, {"pitch": -6, "yaw": 125, "type": "scene", "sceneId": "VR7@b", "targetYaw": "sameAzimuth", "cssClass": "gis-hot", "createTooltipFunc": "HOT", "createTooltipArgs": "工作室"}]}, "VR5@b": {"title": "走道", "panorama": "pano_before/VR5.jpg?v=1", "yaw": 110, "pitch": -5, "hfov": 105, "northOffset": 0, "hotSpots": [{"pitch": -6, "yaw": -20, "type": "scene", "sceneId": "VR2@b", "targetYaw": "sameAzimuth", "cssClass": "gis-hot", "createTooltipFunc": "HOT", "createTooltipArgs": "客廳"}, {"pitch": -6, "yaw": -160, "type": "scene", "sceneId": "VR8@b", "targetYaw": "sameAzimuth", "cssClass": "gis-hot", "createTooltipFunc": "HOT", "createTooltipArgs": "更衣室"}, {"pitch": -8, "yaw": 110, "type": "scene", "sceneId": "VR9@b", "targetYaw": "sameAzimuth", "cssClass": "gis-hot", "createTooltipFunc": "HOT", "createTooltipArgs": "主臥"}]}, "VR6@b": {"title": "次臥", "panorama": "pano_before/VR6.jpg?v=1", "yaw": 120, "pitch": -5, "hfov": 105, "northOffset": 0, "hotSpots": [{"pitch": -4, "yaw": 81, "type": "scene", "sceneId": "VR2@b", "targetYaw": "sameAzimuth", "cssClass": "gis-hot", "createTooltipFunc": "HOT", "createTooltipArgs": "客廳"}]}, "VR7@b": {"title": "工作室", "panorama": "pano_before/VR7.jpg?v=1", "yaw": 0, "pitch": -5, "hfov": 105, "northOffset": 0, "hotSpots": [{"pitch": -6, "yaw": -70, "type": "scene", "sceneId": "VR4@b", "targetYaw": "sameAzimuth", "cssClass": "gis-hot", "createTooltipFunc": "HOT", "createTooltipArgs": "廚房"}]}, "VR8@b": {"title": "更衣室", "panorama": "pano_before/VR8.jpg?v=1", "yaw": 30, "pitch": -5, "hfov": 105, "northOffset": 0, "hotSpots": [{"pitch": -6, "yaw": -34, "type": "scene", "sceneId": "VR5@b", "targetYaw": "sameAzimuth", "cssClass": "gis-hot", "createTooltipFunc": "HOT", "createTooltipArgs": "走道"}]}, "VR9@b": {"title": "主臥", "panorama": "pano_before/VR9.jpg?v=1", "yaw": 75, "pitch": -5, "hfov": 105, "northOffset": 0, "hotSpots": [{"pitch": -8, "yaw": -17, "type": "scene", "sceneId": "VR5@b", "targetYaw": "sameAzimuth", "cssClass": "gis-hot", "createTooltipFunc": "HOT", "createTooltipArgs": "走道"}]}, "VR1~p": {"title": "玄關", "panorama": "pano_plain/VR1.jpg?v=1b", "yaw": -135, "pitch": -5, "hfov": 105, "northOffset": 0, "hotSpots": [{"pitch": -8, "yaw": -135, "type": "scene", "sceneId": "VR2~p", "targetYaw": "sameAzimuth", "cssClass": "gis-hot", "createTooltipFunc": "HOT", "createTooltipArgs": "客廳"}]}, "VR2~p": {"title": "客廳", "panorama": "pano_plain/VR2.jpg?v=1b", "yaw": -60, "pitch": -5, "hfov": 105, "northOffset": 0, "hotSpots": [{"pitch": -10, "yaw": 95, "type": "scene", "sceneId": "VR1~p", "targetYaw": "sameAzimuth", "cssClass": "gis-hot", "createTooltipFunc": "HOT", "createTooltipArgs": "玄關"}, {"pitch": -6, "yaw": -118, "type": "scene", "sceneId": "VR3~p", "targetYaw": "sameAzimuth", "cssClass": "gis-hot", "createTooltipFunc": "HOT", "createTooltipArgs": "多功能區"}, {"pitch": -2, "yaw": 150, "type": "scene", "sceneId": "VR6~p", "targetYaw": "sameAzimuth", "cssClass": "gis-hot", "createTooltipFunc": "HOT", "createTooltipArgs": "次臥"}, {"pitch": -18, "yaw": 145, "type": "scene", "sceneId": "VR5~p", "targetYaw": "sameAzimuth", "cssClass": "gis-hot", "createTooltipFunc": "HOT", "createTooltipArgs": "走道"}]}, "VR3~p": {"title": "多功能區", "panorama": "pano_plain/VR3.jpg?v=1b", "yaw": -100, "pitch": -5, "hfov": 105, "northOffset": 0, "hotSpots": [{"pitch": -6, "yaw": 20, "type": "scene", "sceneId": "VR2~p", "targetYaw": "sameAzimuth", "cssClass": "gis-hot", "createTooltipFunc": "HOT", "createTooltipArgs": "客廳"}, {"pitch": -14, "yaw": -161, "type": "scene", "sceneId": "VR4~p", "targetYaw": "sameAzimuth", "cssClass": "gis-hot", "createTooltipFunc": "HOT", "createTooltipArgs": "廚房"}]}, "VR4~p": {"title": "廚房", "panorama": "pano_plain/VR4.jpg?v=1b", "yaw": -150, "pitch": -5, "hfov": 105, "northOffset": 0, "hotSpots": [{"pitch": -14, "yaw": 19, "type": "scene", "sceneId": "VR3~p", "targetYaw": "sameAzimuth", "cssClass": "gis-hot", "createTooltipFunc": "HOT", "createTooltipArgs": "多功能區"}, {"pitch": -6, "yaw": 125, "type": "scene", "sceneId": "VR7~p", "targetYaw": "sameAzimuth", "cssClass": "gis-hot", "createTooltipFunc": "HOT", "createTooltipArgs": "工作室"}]}, "VR5~p": {"title": "走道", "panorama": "pano_plain/VR5.jpg?v=1b", "yaw": 110, "pitch": -5, "hfov": 105, "northOffset": 0, "hotSpots": [{"pitch": -6, "yaw": -20, "type": "scene", "sceneId": "VR2~p", "targetYaw": "sameAzimuth", "cssClass": "gis-hot", "createTooltipFunc": "HOT", "createTooltipArgs": "客廳"}, {"pitch": -6, "yaw": -160, "type": "scene", "sceneId": "VR8~p", "targetYaw": "sameAzimuth", "cssClass": "gis-hot", "createTooltipFunc": "HOT", "createTooltipArgs": "更衣室"}, {"pitch": -8, "yaw": 110, "type": "scene", "sceneId": "VR9~p", "targetYaw": "sameAzimuth", "cssClass": "gis-hot", "createTooltipFunc": "HOT", "createTooltipArgs": "主臥"}]}, "VR6~p": {"title": "次臥", "panorama": "pano_plain/VR6.jpg?v=1b", "yaw": 120, "pitch": -5, "hfov": 105, "northOffset": 0, "hotSpots": [{"pitch": -4, "yaw": 81, "type": "scene", "sceneId": "VR2~p", "targetYaw": "sameAzimuth", "cssClass": "gis-hot", "createTooltipFunc": "HOT", "createTooltipArgs": "客廳"}]}, "VR7~p": {"title": "工作室", "panorama": "pano_plain/VR7.jpg?v=1b", "yaw": 0, "pitch": -5, "hfov": 105, "northOffset": 0, "hotSpots": [{"pitch": -6, "yaw": -70, "type": "scene", "sceneId": "VR4~p", "targetYaw": "sameAzimuth", "cssClass": "gis-hot", "createTooltipFunc": "HOT", "createTooltipArgs": "廚房"}]}, "VR8~p": {"title": "更衣室", "panorama": "pano_plain/VR8.jpg?v=1b", "yaw": 30, "pitch": -5, "hfov": 105, "northOffset": 0, "hotSpots": [{"pitch": -6, "yaw": -34, "type": "scene", "sceneId": "VR5~p", "targetYaw": "sameAzimuth", "cssClass": "gis-hot", "createTooltipFunc": "HOT", "createTooltipArgs": "走道"}]}, "VR9~p": {"title": "主臥", "panorama": "pano_plain/VR9.jpg?v=1", "yaw": 75, "pitch": -5, "hfov": 105, "northOffset": 0, "hotSpots": [{"pitch": -8, "yaw": -17, "type": "scene", "sceneId": "VR5~p", "targetYaw": "sameAzimuth", "cssClass": "gis-hot", "createTooltipFunc": "HOT", "createTooltipArgs": "走道"}]}, "VR1@n~p": {"title": "玄關", "panorama": "pano_night_plain/VR1.jpg?v=1", "yaw": -135, "pitch": -5, "hfov": 105, "northOffset": 0, "hotSpots": [{"pitch": -8, "yaw": -135, "type": "scene", "sceneId": "VR2@n~p", "targetYaw": "sameAzimuth", "cssClass": "gis-hot", "createTooltipFunc": "HOT", "createTooltipArgs": "客廳"}]}, "VR2@n~p": {"title": "客廳", "panorama": "pano_night_plain/VR2.jpg?v=1", "yaw": -60, "pitch": -5, "hfov": 105, "northOffset": 0, "hotSpots": [{"pitch": -10, "yaw": 95, "type": "scene", "sceneId": "VR1@n~p", "targetYaw": "sameAzimuth", "cssClass": "gis-hot", "createTooltipFunc": "HOT", "createTooltipArgs": "玄關"}, {"pitch": -6, "yaw": -118, "type": "scene", "sceneId": "VR3@n~p", "targetYaw": "sameAzimuth", "cssClass": "gis-hot", "createTooltipFunc": "HOT", "createTooltipArgs": "多功能區"}, {"pitch": -2, "yaw": 150, "type": "scene", "sceneId": "VR6@n~p", "targetYaw": "sameAzimuth", "cssClass": "gis-hot", "createTooltipFunc": "HOT", "createTooltipArgs": "次臥"}, {"pitch": -18, "yaw": 145, "type": "scene", "sceneId": "VR5@n~p", "targetYaw": "sameAzimuth", "cssClass": "gis-hot", "createTooltipFunc": "HOT", "createTooltipArgs": "走道"}]}, "VR3@n~p": {"title": "多功能區", "panorama": "pano_night_plain/VR3.jpg?v=1", "yaw": -100, "pitch": -5, "hfov": 105, "northOffset": 0, "hotSpots": [{"pitch": -6, "yaw": 20, "type": "scene", "sceneId": "VR2@n~p", "targetYaw": "sameAzimuth", "cssClass": "gis-hot", "createTooltipFunc": "HOT", "createTooltipArgs": "客廳"}, {"pitch": -14, "yaw": -161, "type": "scene", "sceneId": "VR4@n~p", "targetYaw": "sameAzimuth", "cssClass": "gis-hot", "createTooltipFunc": "HOT", "createTooltipArgs": "廚房"}]}, "VR4@n~p": {"title": "廚房", "panorama": "pano_night_plain/VR4.jpg?v=1", "yaw": -150, "pitch": -5, "hfov": 105, "northOffset": 0, "hotSpots": [{"pitch": -14, "yaw": 19, "type": "scene", "sceneId": "VR3@n~p", "targetYaw": "sameAzimuth", "cssClass": "gis-hot", "createTooltipFunc": "HOT", "createTooltipArgs": "多功能區"}, {"pitch": -6, "yaw": 125, "type": "scene", "sceneId": "VR7@n~p", "targetYaw": "sameAzimuth", "cssClass": "gis-hot", "createTooltipFunc": "HOT", "createTooltipArgs": "工作室"}]}, "VR5@n~p": {"title": "走道", "panorama": "pano_night_plain/VR5.jpg?v=1", "yaw": 110, "pitch": -5, "hfov": 105, "northOffset": 0, "hotSpots": [{"pitch": -6, "yaw": -20, "type": "scene", "sceneId": "VR2@n~p", "targetYaw": "sameAzimuth", "cssClass": "gis-hot", "createTooltipFunc": "HOT", "createTooltipArgs": "客廳"}, {"pitch": -6, "yaw": -160, "type": "scene", "sceneId": "VR8@n~p", "targetYaw": "sameAzimuth", "cssClass": "gis-hot", "createTooltipFunc": "HOT", "createTooltipArgs": "更衣室"}, {"pitch": -8, "yaw": 110, "type": "scene", "sceneId": "VR9@n~p", "targetYaw": "sameAzimuth", "cssClass": "gis-hot", "createTooltipFunc": "HOT", "createTooltipArgs": "主臥"}]}, "VR6@n~p": {"title": "次臥", "panorama": "pano_night_plain/VR6.jpg?v=1", "yaw": 120, "pitch": -5, "hfov": 105, "northOffset": 0, "hotSpots": [{"pitch": -4, "yaw": 81, "type": "scene", "sceneId": "VR2@n~p", "targetYaw": "sameAzimuth", "cssClass": "gis-hot", "createTooltipFunc": "HOT", "createTooltipArgs": "客廳"}]}, "VR7@n~p": {"title": "工作室", "panorama": "pano_night_plain/VR7.jpg?v=1", "yaw": 0, "pitch": -5, "hfov": 105, "northOffset": 0, "hotSpots": [{"pitch": -6, "yaw": -70, "type": "scene", "sceneId": "VR4@n~p", "targetYaw": "sameAzimuth", "cssClass": "gis-hot", "createTooltipFunc": "HOT", "createTooltipArgs": "廚房"}]}, "VR8@n~p": {"title": "更衣室", "panorama": "pano_night_plain/VR8.jpg?v=1", "yaw": 30, "pitch": -5, "hfov": 105, "northOffset": 0, "hotSpots": [{"pitch": -6, "yaw": -34, "type": "scene", "sceneId": "VR5@n~p", "targetYaw": "sameAzimuth", "cssClass": "gis-hot", "createTooltipFunc": "HOT", "createTooltipArgs": "走道"}]}, "VR9@n~p": {"title": "主臥", "panorama": "pano_night_plain/VR9.jpg?v=1", "yaw": 75, "pitch": -5, "hfov": 105, "northOffset": 0, "hotSpots": [{"pitch": -8, "yaw": -17, "type": "scene", "sceneId": "VR5@n~p", "targetYaw": "sameAzimuth", "cssClass": "gis-hot", "createTooltipFunc": "HOT", "createTooltipArgs": "走道"}]}};
 function HOT(div, name) {
   const p = document.createElement('span');
   p.className = 'pill';
@@ -131,7 +131,7 @@ function HOT(div, name) {
 for (const s of Object.values(SCENES)) for (const h of s.hotSpots) h.createTooltipFunc = HOT;
 
 const MODES = [{"suf": "@b", "hash": "#before", "btn": "mBefore"}, {"suf": "", "hash": "", "btn": "mDay"}, {"suf": "@n", "hash": "#night", "btn": "mNight"}];
-const DECOR_ROOMS = ["VR2"];
+const DECOR_ROOMS = ["VR1", "VR2", "VR3", "VR4", "VR5", "VR6", "VR7", "VR8", "VR9"];
 // SUF＝模式（'@b' 裝修前、'' 白天、'@n' 燈光）＋飾品關掉時再加 '~p'；網址 #night、#nodecor、#night-nodecor
 const parseHash = h => { const mh = h.replace(/-?nodecor$/, ''); return { off: /nodecor$/.test(h), suf: (MODES.find(m => m.hash && m.hash === mh) || { suf: '' }).suf }; };
 let { off: DECOR_OFF, suf: MODE } = parseHash(location.hash);
